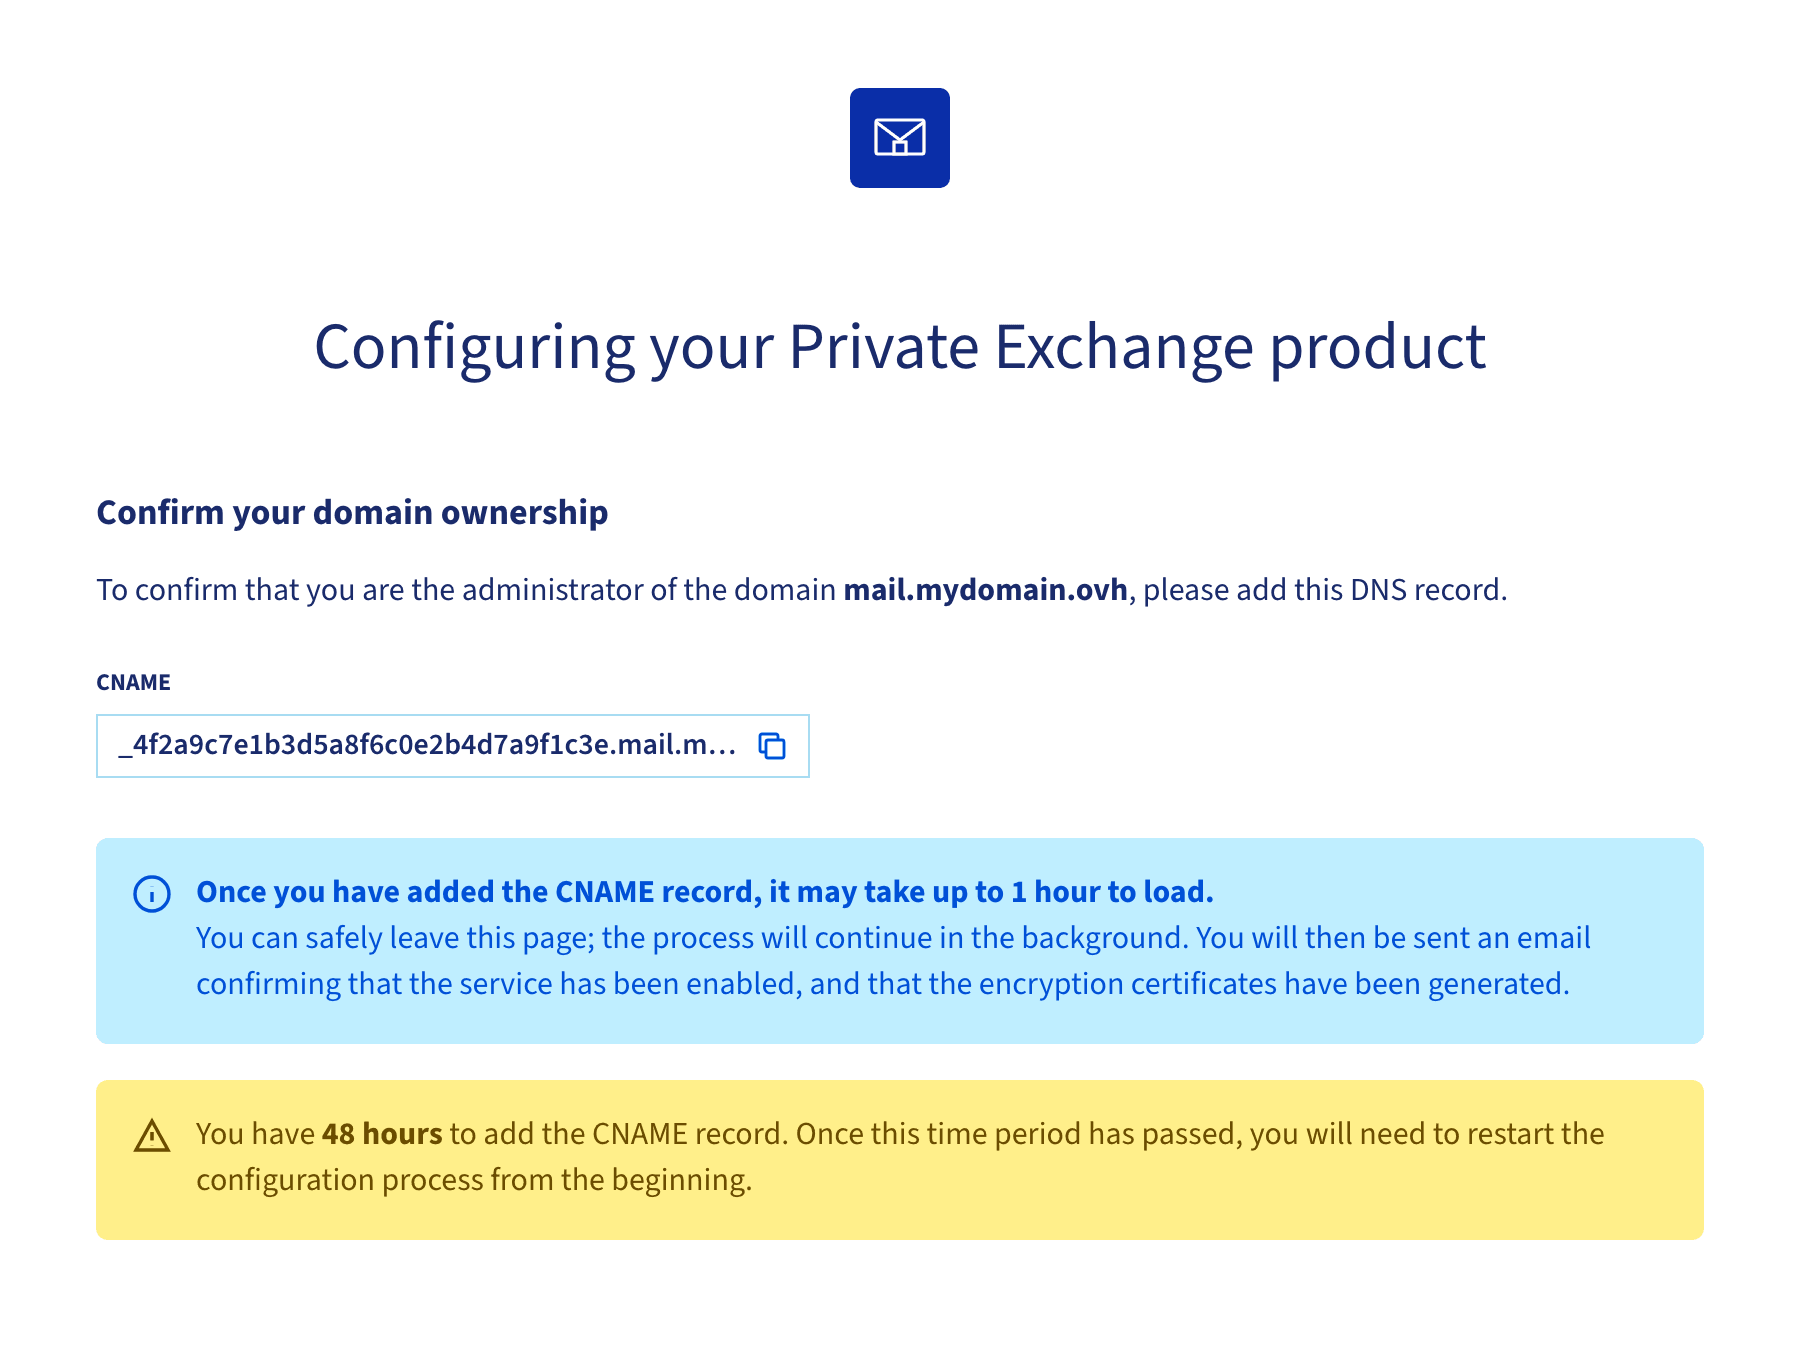
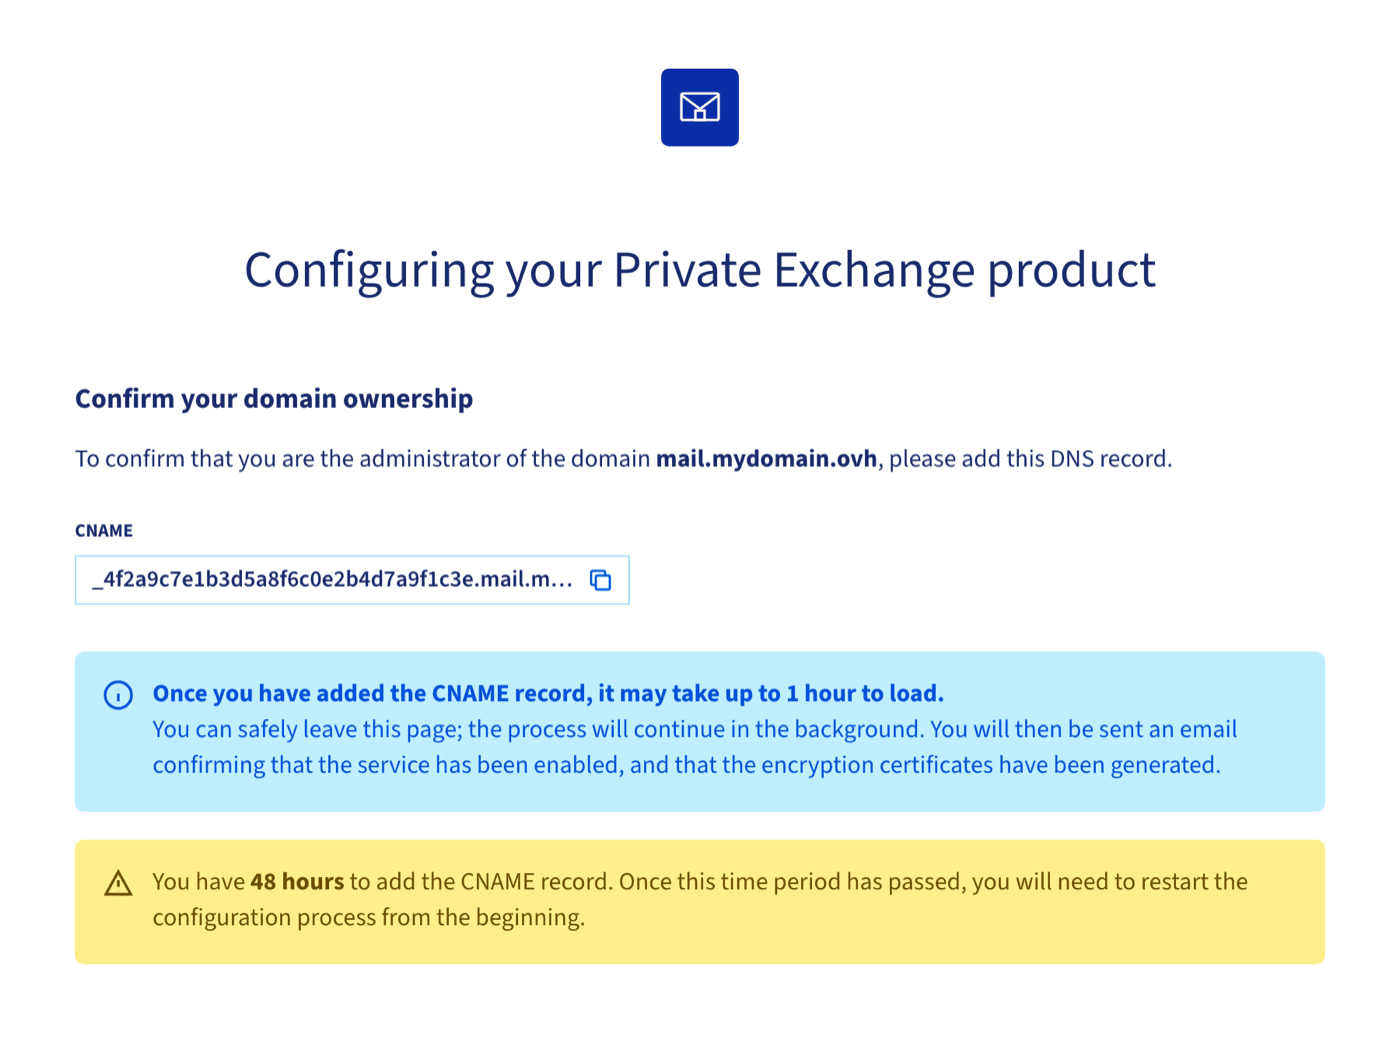
docs: apply the full proofread pass to the private exchange guide
Phase 1 fixes across the seven locales: centralised marketing link
(/links/web/emails-private-exchange), trailing whitespace, link labels aligned
with the target guide titles (EN/FR), NBSP inside French chevrons, French list
grammar ("sert de"), EN calque ("complement"), DE declension and tab label
("Derselbe"), ES inverted meaning ("se crean automáticamente"), PL gender-neutral
and case fixes, PT locution, voice and Manager label ("Estatística"). Six
screenshots resized to the 1400 px maximum width.

diff --git a/components/PrivateExchangeSetupSteps/PrivateExchangeSetupSteps.tsx b/components/PrivateExchangeSetupSteps/PrivateExchangeSetupSteps.tsx
@@ -122,7 +122,7 @@ const STRINGS: Record<string, Strings> = {
     s2Text: 'Subdomain + Domainname, z. B. mail.mydomain.ovh',
     s2Flag: 'Später nicht mehr änderbar',
     s3Title: 'Domain-Zugehörigkeit',
-    s3Same: 'Selber OVHcloud Account: automatisch, nichts zu tun',
+    s3Same: 'Derselbe OVHcloud Account: automatisch, nichts zu tun',
     s3Other: 'Anderswo: CNAME-Eintrag innerhalb von 48 h hinzufügen',
     s4Title: 'Server bereit',
     s4Text: 'SSL-Zertifikat ausgestellt, Webmail aktiv',
